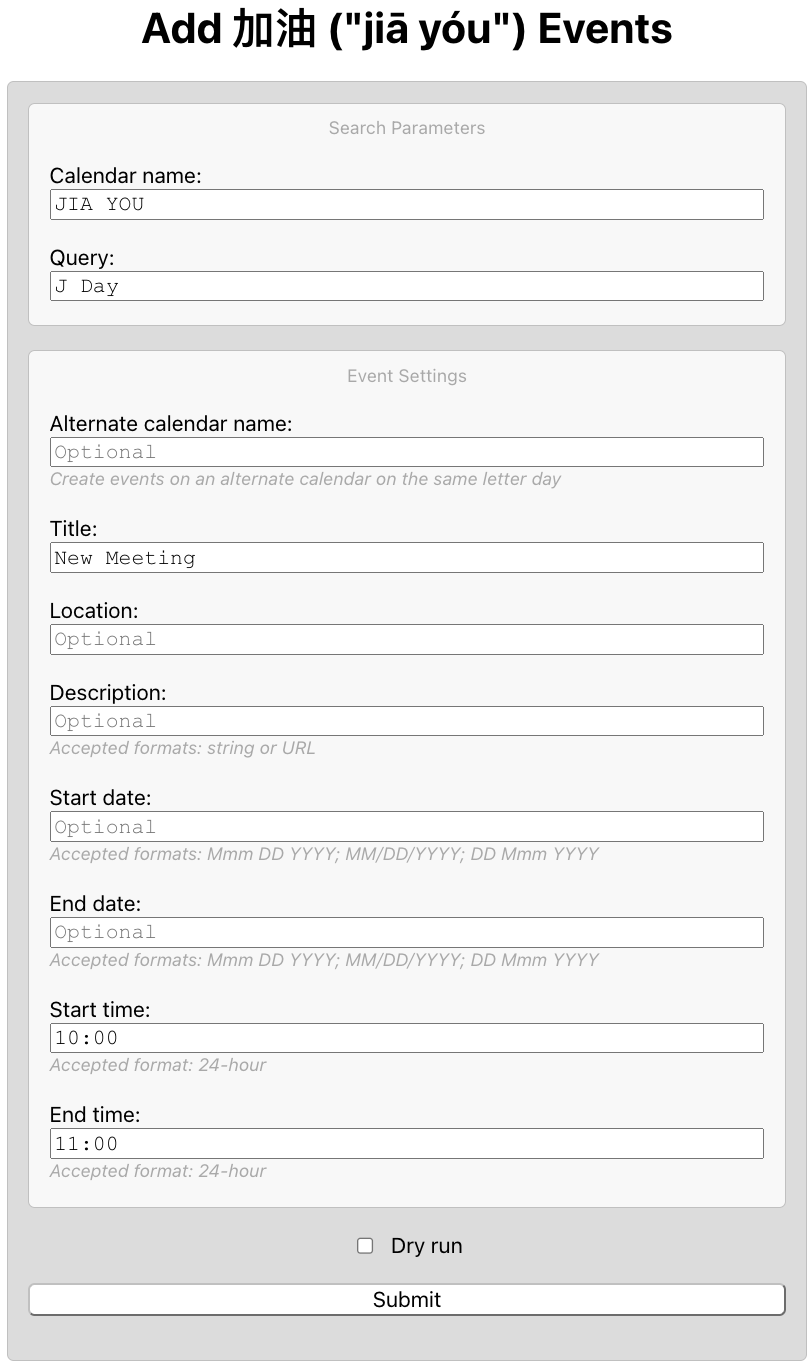
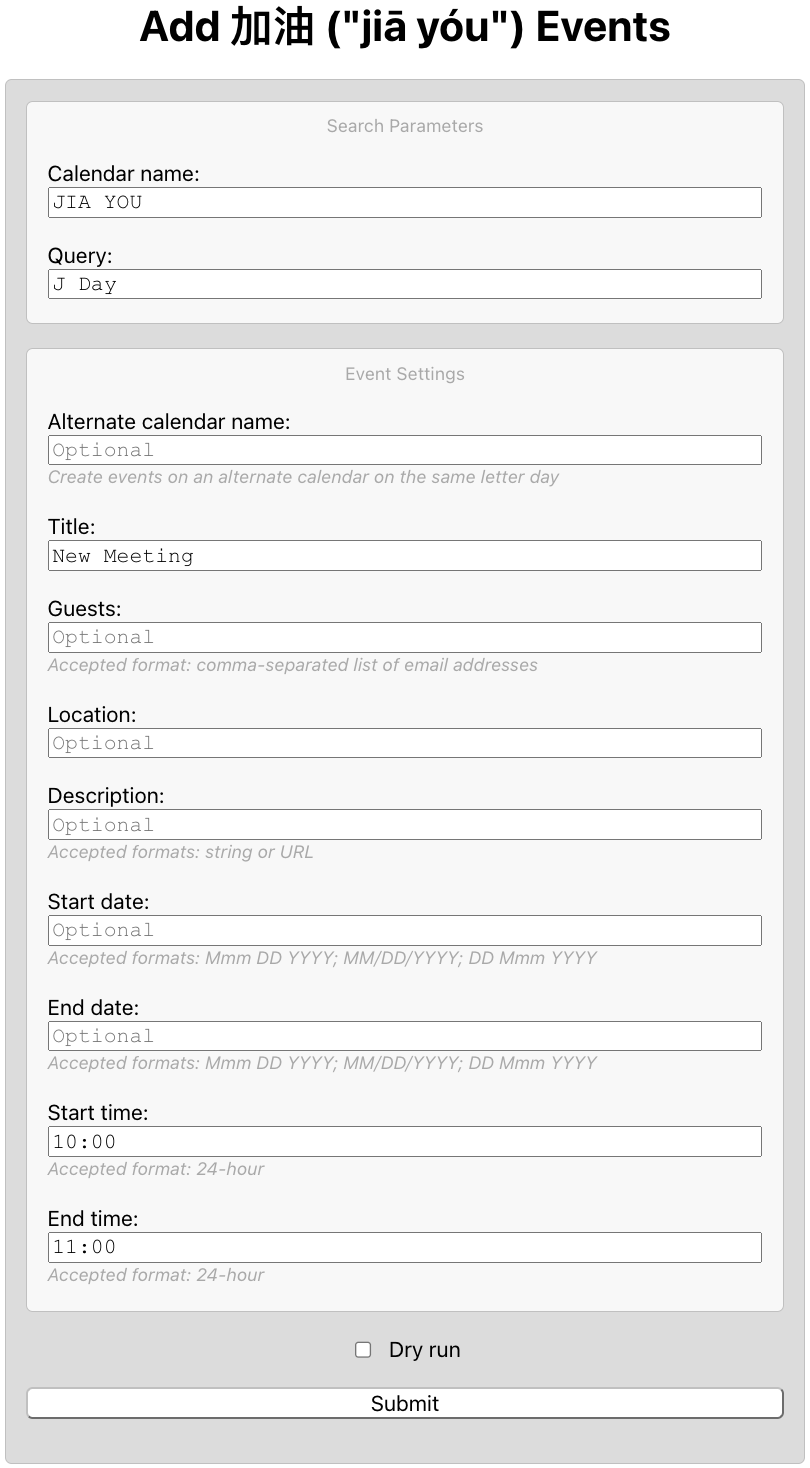
add guest support

Changed region(s): [[0.0, 0.0, 0.9877, 1.0]]

diff --git a/Index.html b/Index.html
@@ -98,6 +98,11 @@
         <!-- prefilled for convenience -->
         </br>
 
+        <label for="guests">Guests:</label>
+        <input type="text" id="guests" name="guests" placeholder="Optional">
+        <text>Accepted format: comma-separated list of email addresses</text>
+        </br></br>
+
         <label for="location">Location:</label>
         <input type="text" id="location" name="location" placeholder="Optional">
         </br>
@@ -156,6 +161,7 @@
         
         var calendarNameAlt = document.getElementById('calendarNameAlt').value;
         var title = document.getElementById('title').value;
+        var guests = document.getElementById('guests').value;
         var location = document.getElementById('location').value;
         var description = document.getElementById('description').value;
         var start = document.getElementById('start').value;
@@ -168,7 +174,7 @@
 
         google.script.run.withSuccessHandler(function(response) {
           document.getElementById('wait').innerHTML = response; // Displays a success message when completed
-        }).addEvents(calendarName, query, calendarNameAlt, title, location, description, start, end, startTime, endTime, dryRun);
+        }).addEvents(calendarName, query, calendarNameAlt, title, guests, location, description, start, end, startTime, endTime, dryRun);
       });
     </script>
   </body>

diff --git a/README.md b/README.md
@@ -16,7 +16,7 @@ Google Web app for batch creating additional events on only certain letter days 
 4. Create an HTML file, and name it "Index."
 5. Copy and paste [the markup text](./Index.html) into the editor, and save the file.
 6. Deploy the project as a Web app, and open the assigned URL.
-7. Modify the calendar name, search query, events' title, location, description, start time, and end time. (**_Must name the calendar differently from the owner name, otherwise the app will not create events._** If you input a URL for the description, text to display will be "Agenda.")
+7. Modify the calendar name, search query, events' title, guests, location, description, start time, and end time. (**_Must name the calendar differently from the owner name, otherwise the app will not create events._** If you input a URL for the description, text to display will be "Agenda.")
 8. Name an alternate calendar to create events on the alternate calendar. (**_Same naming convention applies._**)
 9. Confine the date range by inputting a start date and end date.
 10. Optionally perform a dry run to test the Web app before running it in production. Consult logs for output.
